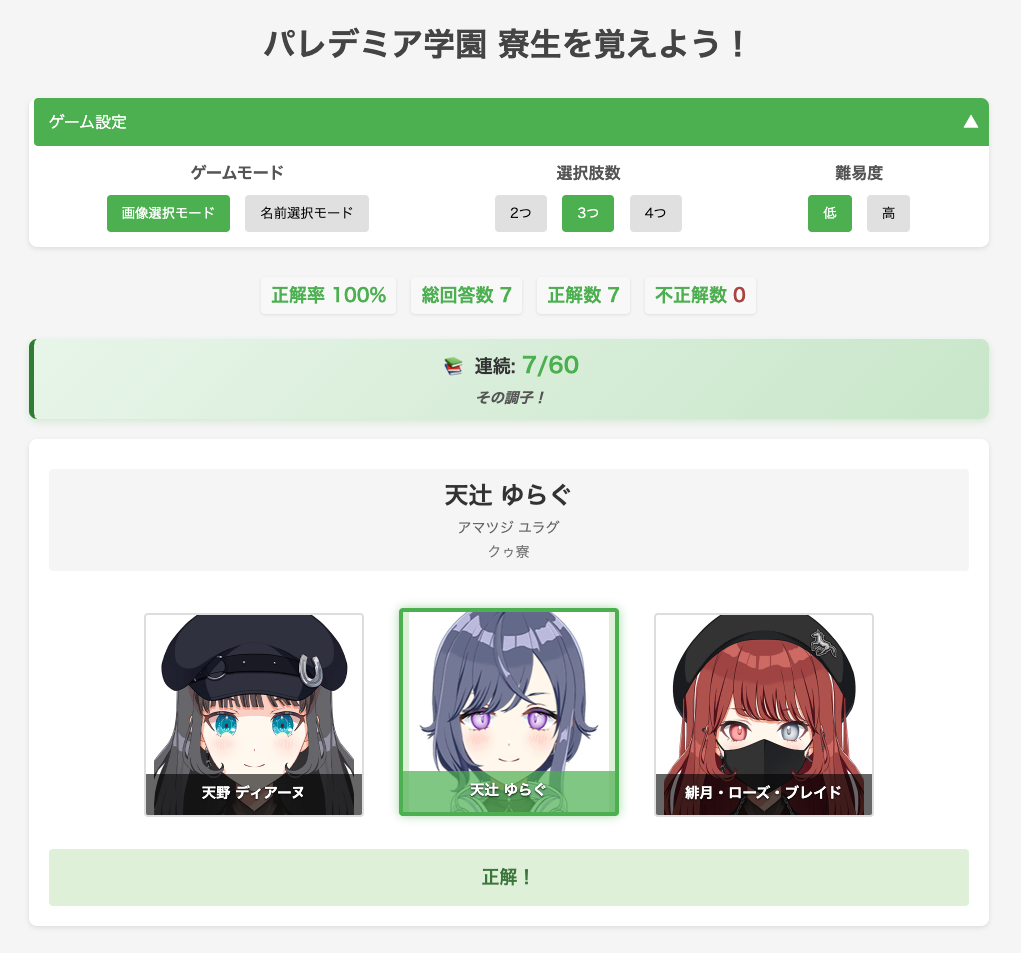
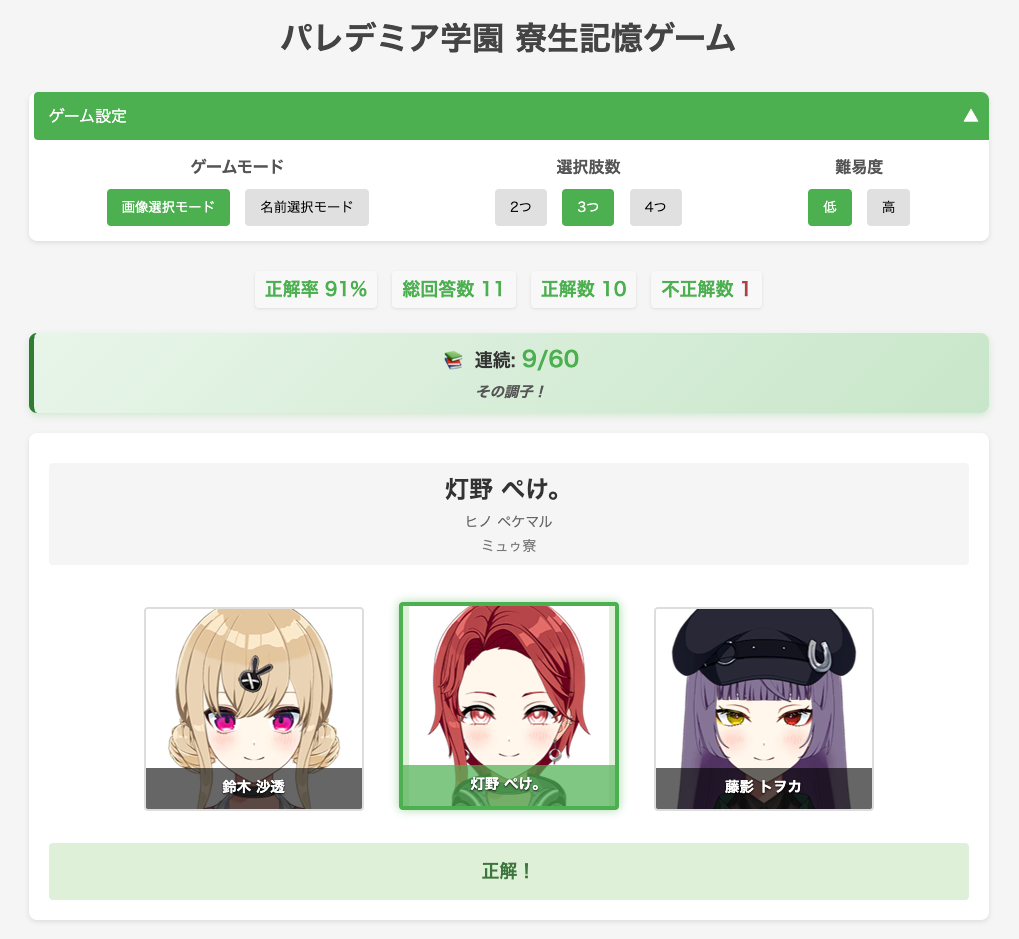
OGP追加、タイトル変更

diff --git a/index.html b/index.html
@@ -3,7 +3,13 @@
 <head>
     <meta charset="UTF-8">
     <meta name="viewport" content="width=device-width, initial-scale=1.0">
-    <title>パレデミア学園 寮生を覚えよう！</title>
+    <title>パレデミア学園 寮生記憶ゲーム</title>
+    <!-- OGP設定 - SNSでシェアされたときに魅力的に表示されるよう設定 -->
+    <meta property="og:title" content="パレデミア学園 寮生記憶ゲーム">
+    <meta property="og:description" content="パレデミア学園60名のタレントの顔と名前を覚えるための楽しいメモリーゲーム">
+    <meta property="og:image" content="https://applepedlar.github.io/parerdemia-quiz/assets/images/screenshot.png">
+    <meta property="og:url" content="https://applepedlar.github.io/parerdemia-quiz/">
+    <meta property="og:type" content="website">
     <!-- このゲームを作りながらパレデミア学園のことを知りました。
          シンプルなゲームだけど、60名のタレントさんの個性が輝いて見えます。
          動物の鳴き声が寮名の由来になっているのは本当に素敵ですね。 -->
@@ -23,7 +29,7 @@
          青と紫のグラデーションカラーの制服で...
          そんな夢を抱きながらコードを書いています。 -->
     <div class="container">
-        <h1>パレデミア学園 寮生を覚えよう！</h1>
+        <h1>パレデミア学園 寮生記憶ゲーム</h1>
         
         <!-- アコーディオン機能は雛菊 のんさんのようにシンプルで使いやすく、
              見た目も機能性も大事にしています。タレントたちのように

diff --git a/README.md b/README.md
@@ -34,6 +34,19 @@
 - **バゥ寮**：15 名の活発なタレントが所属
 - **ウィニー寮**：15 名の華やかなタレントが所属
 
+## OGP 設定
+
+このプロジェクトには、ソーシャルメディア共有用の OGP（Open Graph Protocol）設定が含まれています：
+
+- **OGP 画像**: `assets/images/screenshot.png`を使用
+- **OGP 情報**:
+  - タイトル: パレデミア学園 寮生記憶ゲーム
+  - 説明: パレデミア学園 60 名のタレントの顔と名前を覚えるための楽しいメモリーゲーム
+  - URL: サイトの URL
+  - タイプ: website
+
+ソーシャルメディアでの共有時、パレデミア学園のゲームイメージが適切に表示されます。
+
 ## 遊び方
 
 1. ゲームモード（画像選択/名前選択）を選びます
